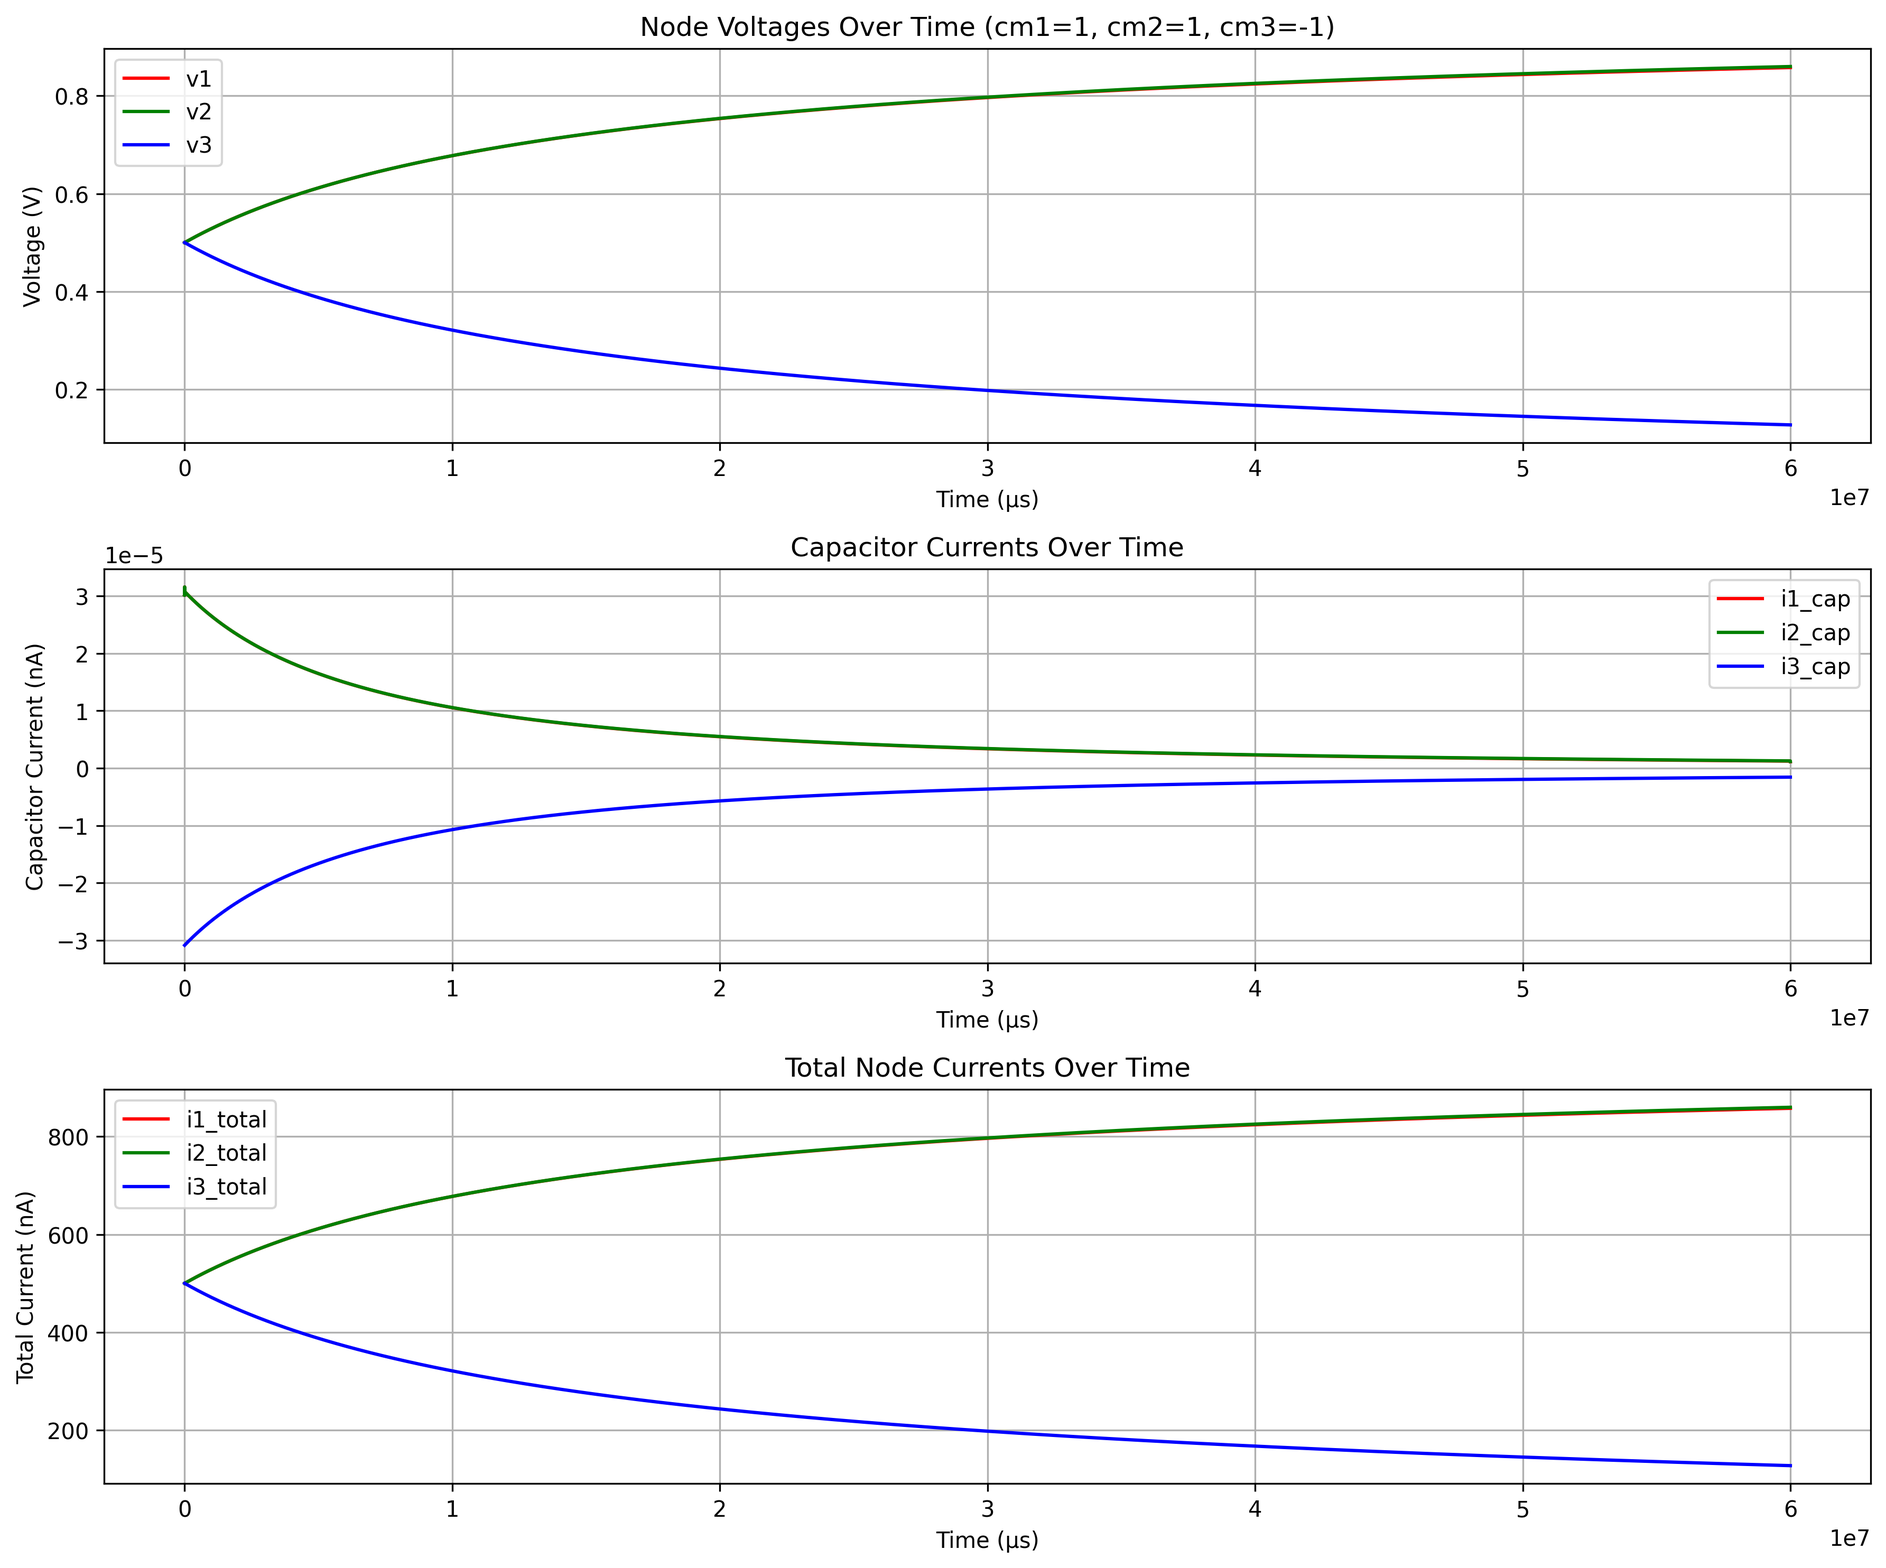
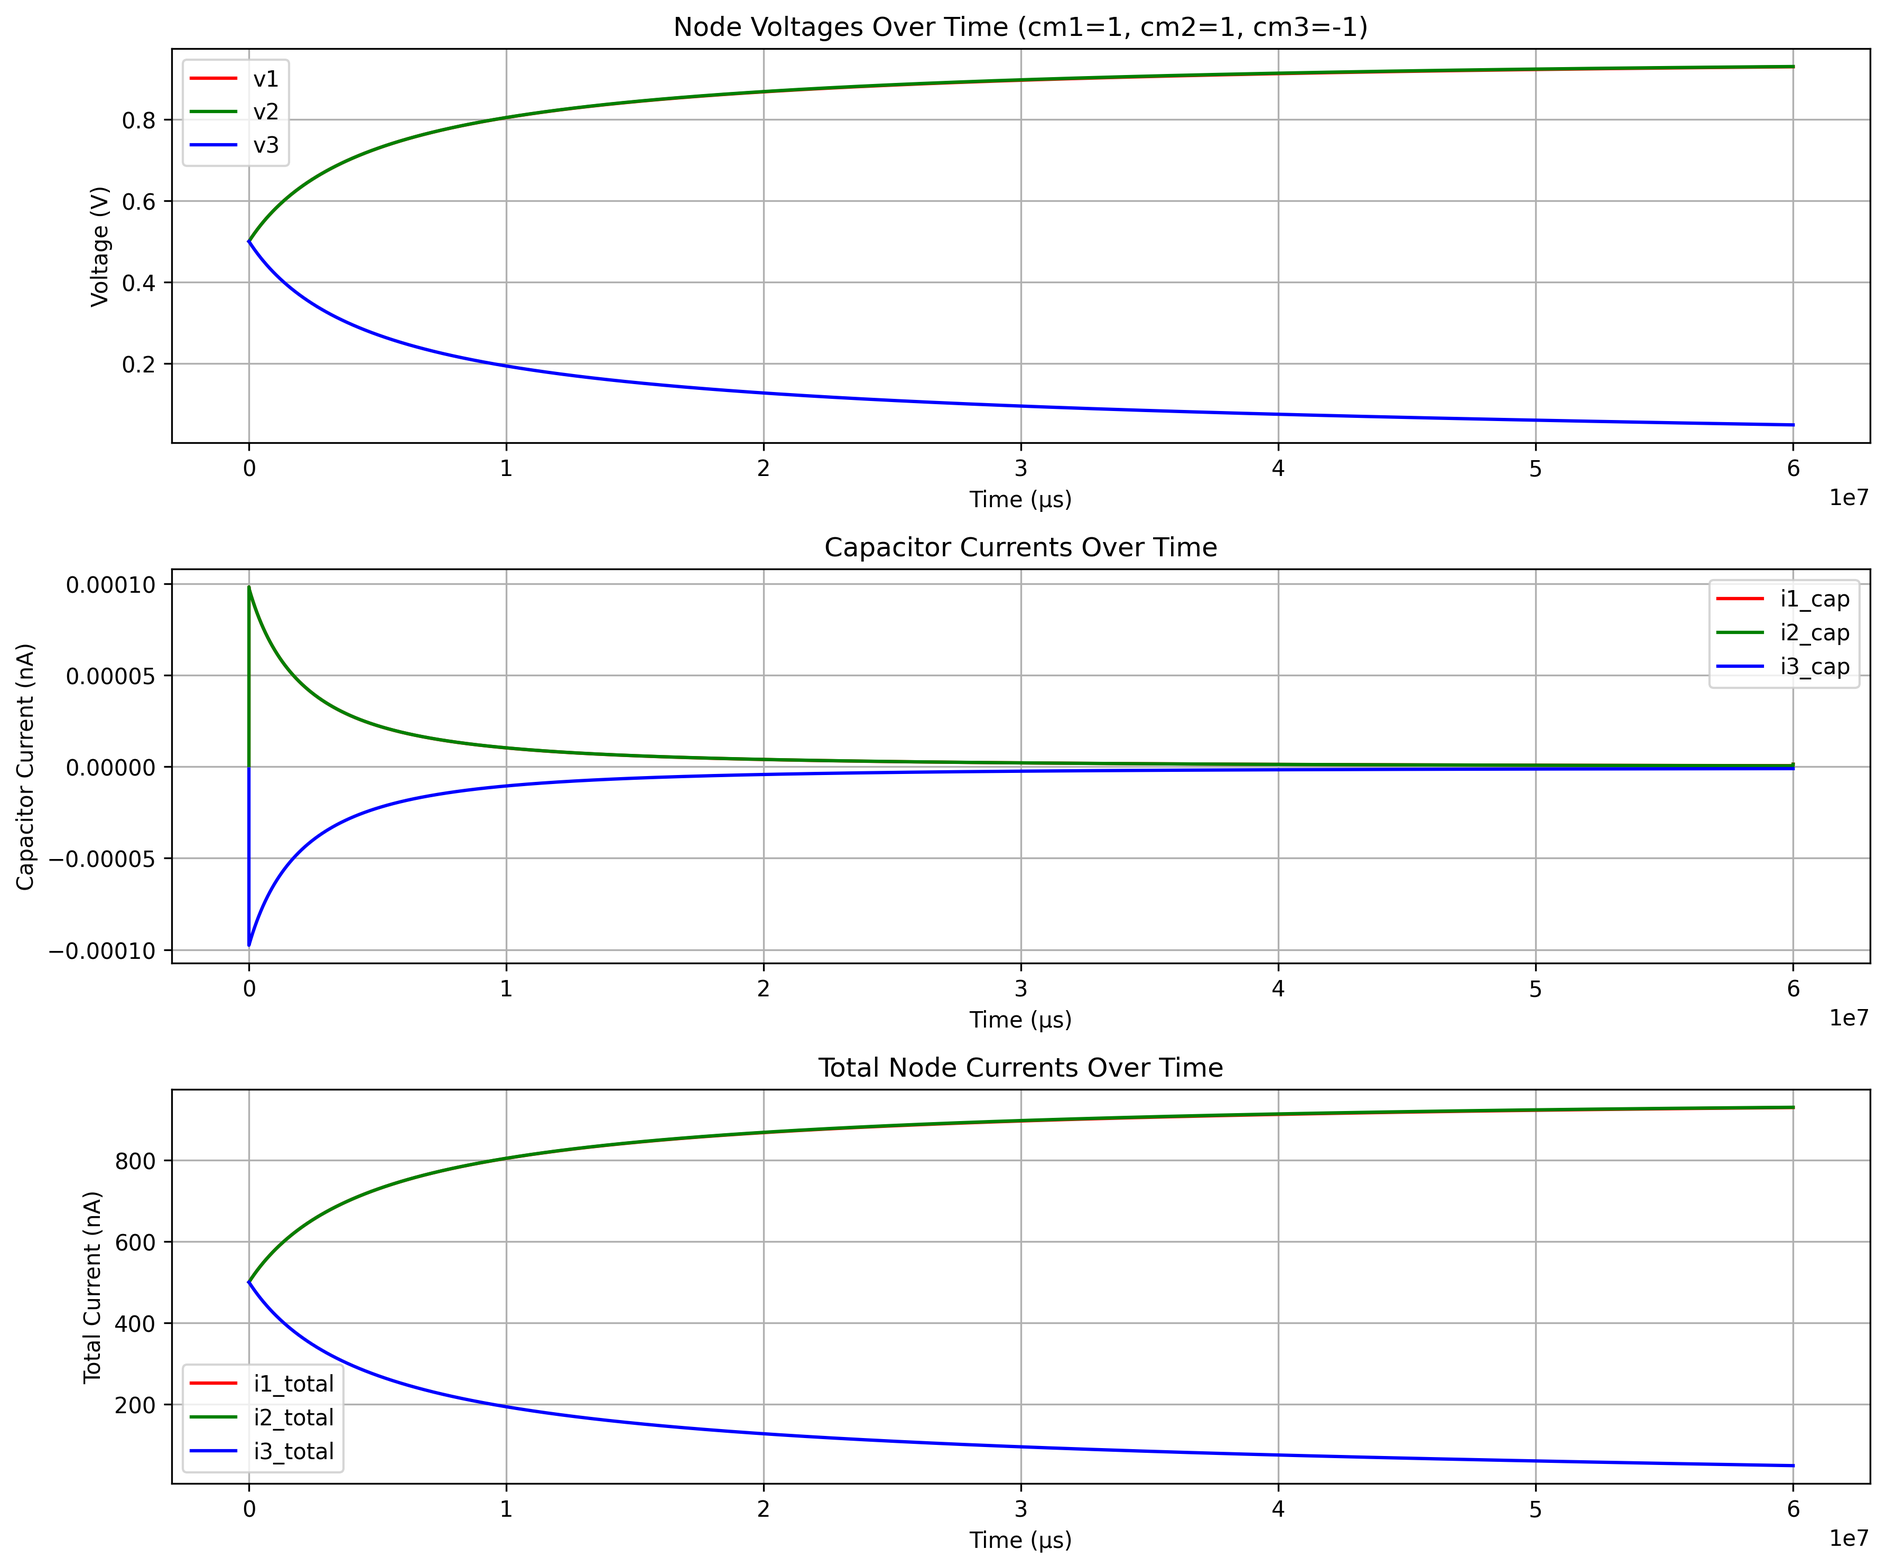
am first attempt

diff --git a/src/main.py b/src/main.py
@@ -90,7 +90,9 @@ def create_3sat_circuit(clauses, variable_names):
     
     # Set a common capacitance value for all components
     C = 1e-9  # 1nF
-    
+    C_aux = 10e-9  # 10nF
+    gain_aux = 20.0
+     
     # Create Variable subcircuits for each variable
     variables = []
     for i, name in enumerate(variable_names):
@@ -110,21 +112,22 @@ def create_3sat_circuit(clauses, variable_names):
             cm_values.append(-1 if is_negated else 1)
         
         # Create the Clause subcircuit
-        clause_circuit = Clause(cm1=cm_values[0], cm2=cm_values[1], cm3=cm_values[2], C=C)
+        clause_circuit = Clause(cm1=cm_values[0], cm2=cm_values[1], cm3=cm_values[2], C=C, C_aux=C_aux, gain_aux=gain_aux)
         circuit.subcircuit(clause_circuit)
         
         # Get the variable nodes for this clause
         v1_node = var_nodes[clause[0][0]]
         v2_node = var_nodes[clause[1][0]]
         v3_node = var_nodes[clause[2][0]]
+        n1_node = f'n1_{i}'
         
         # Instantiate the Clause subcircuit
-        circuit.X(f'clause_{i}', clause_circuit.name, v1_node, v2_node, v3_node, 'vdd', circuit.gnd)
+        circuit.X(f'clause_{i}', clause_circuit.name, n1_node, v1_node, v2_node, v3_node, 'vdd', circuit.gnd)
     
     return circuit
 
 
-def run_3sat_simulation(circuit, variable_names, simulation_time=10, step_time=1e-3):
+def run_3sat_simulation(circuit, variable_names, clauses, simulation_time=10, step_time=1e-3):
     """
     Run a transient simulation on the 3-SAT circuit.
     
@@ -161,6 +164,10 @@ def run_3sat_simulation(circuit, variable_names, simulation_time=10, step_time=1
     for name in variable_names:
         node_name = f'var_{name}'
         initial_conditions[node_name] = 0.5  # Initialize to 0.5V
+
+    for i in range(len(clauses)):
+        node_name = f'n1_{i}'
+        initial_conditions[node_name] = 1.0
     
     # Apply initial conditions
     if initial_conditions:
@@ -172,7 +179,9 @@ def run_3sat_simulation(circuit, variable_names, simulation_time=10, step_time=1
     return analysis
 
 
-def plot_3sat_results(analysis, variable_names, file_name, show_plot=True):
+MAX_CLAUSES_PLOTTED = 10
+
+def plot_3sat_results(analysis, variable_names, clauses, file_name, show_plot=True):
     """
     Plot the results of the 3-SAT simulation with each variable on its own graph.
     
@@ -184,12 +193,13 @@ def plot_3sat_results(analysis, variable_names, file_name, show_plot=True):
     """
     # Calculate the number of rows needed for the subplots
     num_variables = len(variable_names)
+    num_clauses = min(len(clauses), MAX_CLAUSES_PLOTTED)
     
-    # Create a figure with subplots - one for each variable
-    fig, axes = plt.subplots(num_variables, 1, figsize=(12, 4 * num_variables), sharex=True)
+    # Create a figure with subplots - one for each variable and one for each clause
+    fig, axes = plt.subplots(num_variables + num_clauses, 1, figsize=(12, 4 * (num_variables + num_clauses)), sharex=True)
     
-    # If there's only one variable, axes won't be an array
-    if num_variables == 1:
+    # If there's only one subplot, axes won't be an array
+    if num_variables + num_clauses == 1:
         axes = [axes]
     
     # Plot each variable on its own subplot
@@ -244,13 +254,40 @@ def plot_3sat_results(analysis, variable_names, file_name, show_plot=True):
             # List available nodes for debugging
             print(f"Available nodes: {', '.join(analysis.nodes)}")
     
+    # fig2, axes2 = plt.subplots()
+
+    # Plot each clause's vam node
+    for i in range(num_clauses):
+        ax = axes[num_variables + i] # if i != 1 else axes2
+        node_name = f'xclause_{i}.vam'
+        
+        # Plot the clause vam voltage
+        ax.plot(analysis.time, analysis[node_name], label=f'Clause {i+1} vam', linewidth=2, color='purple')
+        ax.plot(analysis.time, analysis[f'n1_{i}'], label=f'Clause {i+1} n1', linewidth=2, color='green')
+        
+        # Add a title and y-label for this subplot
+        ax.set_title(f'Clause {i+1} vam')
+        ax.set_ylabel('Voltage (V)')
+        ax.grid(True)
+        ax.legend()
+        
+        # Get the final voltage value
+        final_voltage = float(analysis[node_name][-1])
+        
+        # Add text annotation showing the final voltage
+        ax.text(0.98, 0.95, f'Final voltage: {final_voltage:.3f}V', 
+                horizontalalignment='right',
+                verticalalignment='top',
+                transform=ax.transAxes,
+                bbox=dict(facecolor='purple', alpha=0.2))
+    
     # Add a common x-label for all subplots with proper formatting
     plt.xlabel('Time (milliseconds)')
     
     # Format the x-axis ticks to show milliseconds
     for ax in axes:
         ax.set_xticklabels([f'{x*1000:.2f}' for x in ax.get_xticks()])
-    
+
     # Adjust layout to prevent overlap
     plt.tight_layout()
     
@@ -309,7 +346,7 @@ def main():
     # Set up argument parser
     parser = argparse.ArgumentParser(description='Solve a 3-SAT problem using an analog circuit simulator.')
     parser.add_argument('--cnf', type=str, help='Path to the CNF file')
-    parser.add_argument('--sim-time', type=float, default=10, help='Simulation time in seconds')
+    parser.add_argument('--sim-time', type=float, default=30, help='Simulation time in seconds')
     parser.add_argument('--step-time', type=float, default=1e-3, help='Simulation step time in seconds')
     args = parser.parse_args()
     
@@ -334,12 +371,12 @@ def main():
     
     # Run the simulation
     print("\nRunning simulation...")
-    analysis = run_3sat_simulation(circuit, variable_names, 
+    analysis = run_3sat_simulation(circuit, variable_names, clauses,
                                   simulation_time=args.sim_time, 
                                   step_time=args.step_time)
     
     # Plot the results
-    plot_3sat_results(analysis, variable_names, args.cnf.split("/")[-1].split(".")[0])
+    plot_3sat_results(analysis, variable_names, clauses, args.cnf.split("/")[-1].split(".")[0])
     
     # Interpret the results
     results, final_voltages = interpret_results(analysis, variable_names)
@@ -353,6 +390,8 @@ def main():
     
     # Check if the assignment satisfies all clauses
     satisfies_all = True
+
+    count_satisfied = 0
     for i, clause in enumerate(clauses):
         clause_satisfied = False
         for var_idx, is_negated in clause:
@@ -369,11 +408,13 @@ def main():
         if not clause_satisfied:
             satisfies_all = False
             print(f"Clause {i+1} is not satisfied!")
+        else:
+            count_satisfied += 1
     
     if satisfies_all:
-        print("\nThe assignment satisfies all clauses!")
+        print(f"\nThe assignment satisfies all clauses! ({count_satisfied}/{len(clauses)})")
     else:
-        print("\nThe assignment does not satisfy all clauses.")
+        print(f"\nThe assignment does not satisfy all clauses. ({count_satisfied}/{len(clauses)})")
 
 
 if __name__ == '__main__':

diff --git a/src/branch.py b/src/branch.py
@@ -4,6 +4,7 @@ from PySpice.Unit import u_V
 import matplotlib.pyplot as plt
 import numpy as np
 
+from nor import NorGate
 from branch_voltage import BranchVoltage
 from branch_current import BranchCurrent
 
@@ -17,6 +18,7 @@ class Branch(SubCircuit):
     subcircuit to produce a current output (Imi).
     
     Nodes:
+    - vam: Auxiliary voltage node
     - vi2: First input voltage
     - vi3: Second input voltage
     - imi_pos: Positive terminal for current output
@@ -26,7 +28,7 @@ class Branch(SubCircuit):
     
     The cmi2, cmi3, cmi values, and C parameter are passed as constructor arguments.
     """
-    NODES = ('vi2', 'vi3', 'imi_pos', 'imi_neg', 'vdd', 'gnd')
+    NODES = ('vam', 'vi2', 'vi3', 'imi_pos', 'imi_neg', 'vdd', 'gnd')
     
     def __init__(self, cmi, cmi2, cmi3, C):
         """
@@ -48,6 +50,9 @@ class Branch(SubCircuit):
         
         # Create and add the BranchVoltage subcircuit
         branch_voltage = BranchVoltage(cmi2=cmi2, cmi3=cmi3)
+
+        # Create and add the NOR gate for the auxiliary stage
+        nor_gate = NorGate()
         
         # Create and add the BranchCurrent subcircuit with the C parameter
         branch_current = BranchCurrent(cmi=cmi, C=C)
@@ -55,15 +60,21 @@ class Branch(SubCircuit):
         # Add the subcircuits
         self.subcircuit(branch_voltage)
         self.subcircuit(branch_current)
+        self.subcircuit(nor_gate)
         
         # Create an internal node for connecting the voltage and current subcircuits
-        internal_vmi = 'vmi_internal'
+        v_stage12 = 'v_stage12'
+        v_stage23 = 'v_stage23'
         
         # Instantiate the BranchVoltage subcircuit
-        self.X('voltage_stage', branch_voltage.name, 'vi2', 'vi3', internal_vmi, 'vdd', 'gnd')
+        self.X('voltage_stage', branch_voltage.name, 'vi2', 'vi3', v_stage12, 'vdd', 'gnd')
+
+        # Analog multiplier to multiply the output of the voltage stage with the auxiliary voltage
+        # TODO: Add a real multiplier
+        self.B('multiplier', v_stage23, 'gnd', v='V(v_stage12)*V(vam)')
         
         # Instantiate the BranchCurrent subcircuit
-        self.X('current_stage', branch_current.name, internal_vmi, 'imi_pos', 'imi_neg', 'vdd', 'gnd')
+        self.X('current_stage', branch_current.name, v_stage23, 'imi_pos', 'imi_neg', 'vdd', 'gnd')
 
 
 # Helper function to calculate the theoretical output based on the mathematical model
@@ -130,6 +141,7 @@ def main():
     # Add input voltage sources
     v_i2 = circuit.V('i2', 'vi2', circuit.gnd, 0@u_V)  # Default input of 0V
     v_i3 = circuit.V('i3', 'vi3', circuit.gnd, 0@u_V)  # Default input of 0V
+    circuit.V('am', 'vam', circuit.gnd, 1@u_V)  # Fix am to 1V for 0 influence
     
     # Test with different cmi combinations
     # We'll test a few representative combinations
@@ -158,7 +170,7 @@ def main():
         circuit.R(f'meas{idx}', output_node, circuit.gnd, 1)
         
         # Instantiate the branch with proper connections for current measurement
-        circuit.X(f'branch{idx}', branch.name, 'vi2', 'vi3', output_node, circuit.gnd, 'vdd', circuit.gnd)
+        circuit.X(f'branch{idx}', branch.name, 'vam', 'vi2', 'vi3', output_node, circuit.gnd, 'vdd', circuit.gnd)
         
         # Add to results tracking
         results.append(output_node)
@@ -299,6 +311,7 @@ def main():
             test_circuit.V('dd', 'vdd', test_circuit.gnd, vdd@u_V)
             test_circuit.V('i2', 'vi2', test_circuit.gnd, vi2@u_V)
             test_circuit.V('i3', 'vi3', test_circuit.gnd, vi3@u_V)
+            test_circuit.V('am', 'vam', test_circuit.gnd, 1@u_V) # Fix am to 1V for 0 influence
             
             # Create and add the complete branch subcircuit
             branch = Branch(cmi=cmi, cmi2=cmi2, cmi3=cmi3, C=C)
@@ -308,7 +321,7 @@ def main():
             test_circuit.R('meas', 'out', test_circuit.gnd, 1)
             
             # Instantiate the branch with proper connections for current measurement
-            test_circuit.X('branch', branch.name, 'vi2', 'vi3', 'out', circuit.gnd, 'vdd', circuit.gnd)
+            test_circuit.X('branch', branch.name, 'vam', 'vi2', 'vi3', 'out', circuit.gnd, 'vdd', circuit.gnd)
             
             # Run simulation
             test_simulator = test_circuit.simulator(temperature=25, nominal_temperature=25)

diff --git a/src/clause.py b/src/clause.py
@@ -2,7 +2,7 @@ import PySpice.Logging.Logging as Logging
 from PySpice.Spice.Netlist import Circuit, SubCircuit
 
 from branch import Branch
-
+from am_full import AMFull
 
 class Clause(SubCircuit):
     """
@@ -25,9 +25,9 @@ class Clause(SubCircuit):
     
     The C parameter is used for all Branch subcircuits.
     """
-    NODES = ('v1', 'v2', 'v3', 'vdd', 'gnd')
+    NODES = ('n1', 'v1', 'v2', 'v3', 'vdd', 'gnd')
     
-    def __init__(self, cm1, cm2, cm3, C):
+    def __init__(self, cm1, cm2, cm3, C, C_aux, gain_aux):
         """
         Initialize the Clause subcircuit with specific cm1, cm2, cm3 values and capacitance.
         
@@ -37,7 +37,7 @@ class Clause(SubCircuit):
             cm3 (int): The third ternary control value (-1 or 1)
             C (float): The capacitance value in Farads (default: 1pF)
         """
-        super().__init__(f'clause_{cm1}_{cm2}_{cm3}_{C}', *self.NODES)
+        super().__init__(f'clause_{cm1}_{cm2}_{cm3}_{C}_{C_aux}', *self.NODES)
             
         # Store control values and capacitance
         self._cm1 = cm1
@@ -48,6 +48,12 @@ class Clause(SubCircuit):
         # 0 is not allowed
         if cm1 == 0 or cm2 == 0 or cm3 == 0:
             raise ValueError("0 is not allowed as a control value")
+        
+        am = AMFull(cm1=cm1, cm2=cm2, cm3=cm3, C=C_aux, gain=gain_aux)
+        self.subcircuit(am)
+        
+        # Instantiate the AMFull subcircuit
+        self.X('am', am.name, 'vam', 'n1', 'v1', 'v2', 'v3', 'vdd', 'gnd')
         
         # Create the three Branch subcircuits with different configurations
         branch1 = Branch(cmi=cm1, cmi2=cm2, cmi3=cm3, C=C)
@@ -60,9 +66,9 @@ class Clause(SubCircuit):
         self.subcircuit(branch3)
         
         # Instantiate the Branch subcircuits
-        self.X('branch1', branch1.name, 'v2', 'v3', 'v1', 'gnd', 'vdd', 'gnd')
-        self.X('branch2', branch2.name, 'v3', 'v1', 'v2', 'gnd', 'vdd', 'gnd')
-        self.X('branch3', branch3.name, 'v1', 'v2', 'v3', 'gnd', 'vdd', 'gnd')
+        self.X('branch1', branch1.name, 'vam', 'v2', 'v3', 'v1', 'gnd', 'vdd', 'gnd')
+        self.X('branch2', branch2.name, 'vam', 'v3', 'v1', 'v2', 'gnd', 'vdd', 'gnd')
+        self.X('branch3', branch3.name, 'vam', 'v1', 'v2', 'v3', 'gnd', 'vdd', 'gnd')
 
 
 def main():
@@ -85,12 +91,7 @@ def main():
     v1_node = 'v1'
     v2_node = 'v2'
     v3_node = 'v3'
-    
-    # Add initial voltage sources to set node voltages
-    # This helps establish an initial operating point
-    circuit.V('v1_init', v1_node, circuit.gnd, 0.5)
-    circuit.V('v2_init', v2_node, circuit.gnd, 0.5)
-    circuit.V('v3_init', v3_node, circuit.gnd, 0.5)
+    n1_node = 'n1'
     
     # Set control values
     cm1 = 1
@@ -103,9 +104,6 @@ def main():
     C = 1e-12  # 1nF
     clause = Clause(cm1=cm1, cm2=cm2, cm3=cm3, C=C)
     circuit.subcircuit(clause)
-    
-    # Instantiate the Clause
-    circuit.X('clause', clause.name, v1_node, v2_node, v3_node, 'vdd', circuit.gnd)
     
     try:
         # Create a new circuit for transient analysis
@@ -124,20 +122,20 @@ def main():
         transient_circuit.subcircuit(clause)
         
         # Instantiate the Clause
-        transient_circuit.X('clause', clause.name, v1_node, v2_node, v3_node, 'vdd', transient_circuit.gnd)
+        transient_circuit.X('clause', clause.name, n1_node, v1_node, v2_node, v3_node, 'vdd', transient_circuit.gnd)
         
         # Set initial conditions for the capacitors based on operating point
         # This helps avoid convergence issues at the start of the simulation
         v1_init = 0.5
         v2_init = 0.5
         v3_init = 0.5
-        
+        n1_init = 0.01
         # Run transient simulation
         transient_simulator = transient_circuit.simulator(temperature=25, nominal_temperature=25)
         transient_simulator.options(reltol=1e-3, abstol=1e-6, itl1=100, itl2=50)
         
         # Set initial conditions for the nodes
-        transient_simulator.initial_condition(v1=v1_init, v2=v2_init, v3=v3_init)
+        transient_simulator.initial_condition(v1=v1_init, v2=v2_init, v3=v3_init, n1=n1_init)
         
         # Run transient analysis
         step_time = 1e-3 # 1 millisecond steps

diff --git a/src/am.py b/src/am.py
@@ -21,7 +21,7 @@ class AMCircuit(SubCircuit):
     RA = 'vam'
     RB = 'n1'
     
-    def __init__(self, C=0.01e-6, gain=2.0):
+    def __init__(self, C, gain):
         """
         Initialize the AM circuit subcircuit with specific component values.
         
@@ -42,6 +42,7 @@ class AMCircuit(SubCircuit):
         
         # Add controlled source with feedback to create exponential growth
         # The growth rate is determined by: growth_rate = (gain-1)/(RC)
+        # E <name> <out+> <out-> <in+> <in-> <gain>
         self.VCVS('amp', 'vam', 'gnd', 'n1', 'gnd', voltage_gain=gain)
 
 

diff --git a/src/am_full.py b/src/am_full.py
@@ -28,7 +28,7 @@ class AMFull(SubCircuit):
     """
     NODES = ('vam', 'n1', 'vi1', 'vi2', 'vi3', 'vdd', 'gnd')
     
-    def __init__(self, cm1, cm2, cm3, C=0.01e-6, gain=2.0):
+    def __init__(self, cm1, cm2, cm3, C, gain):
         """
         Initialize the AMFull subcircuit with specified capacitance.
         
